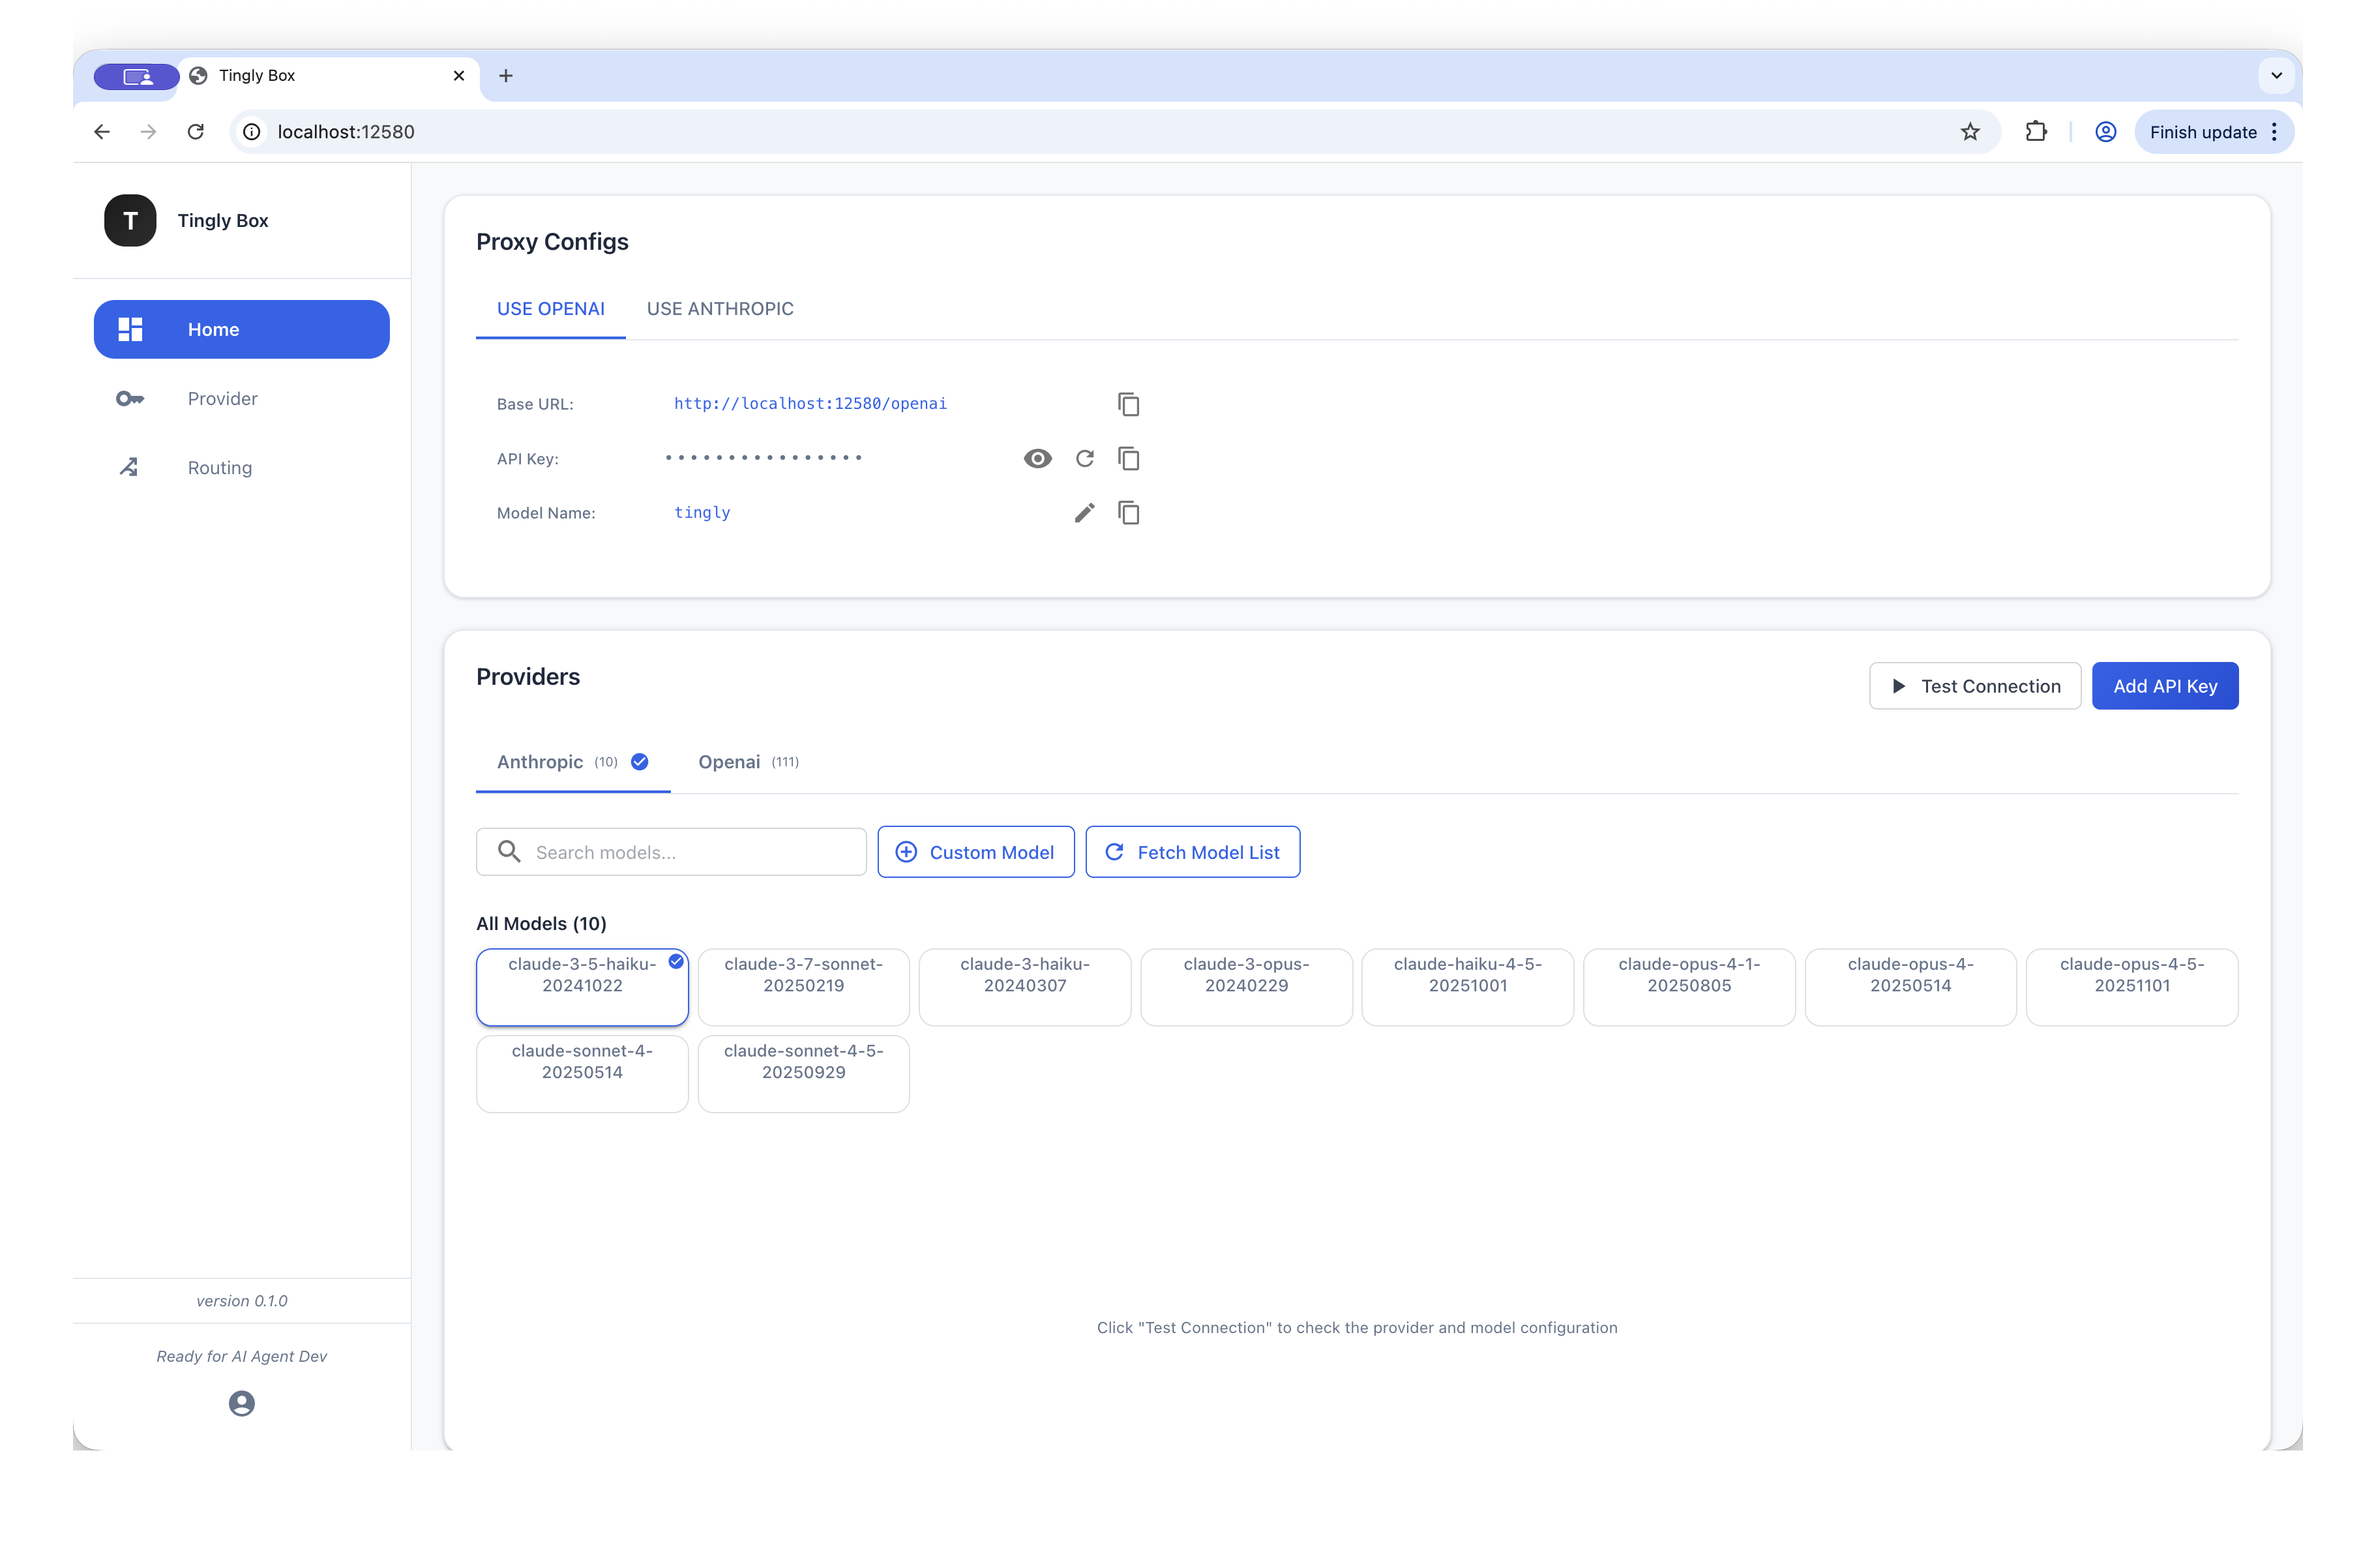
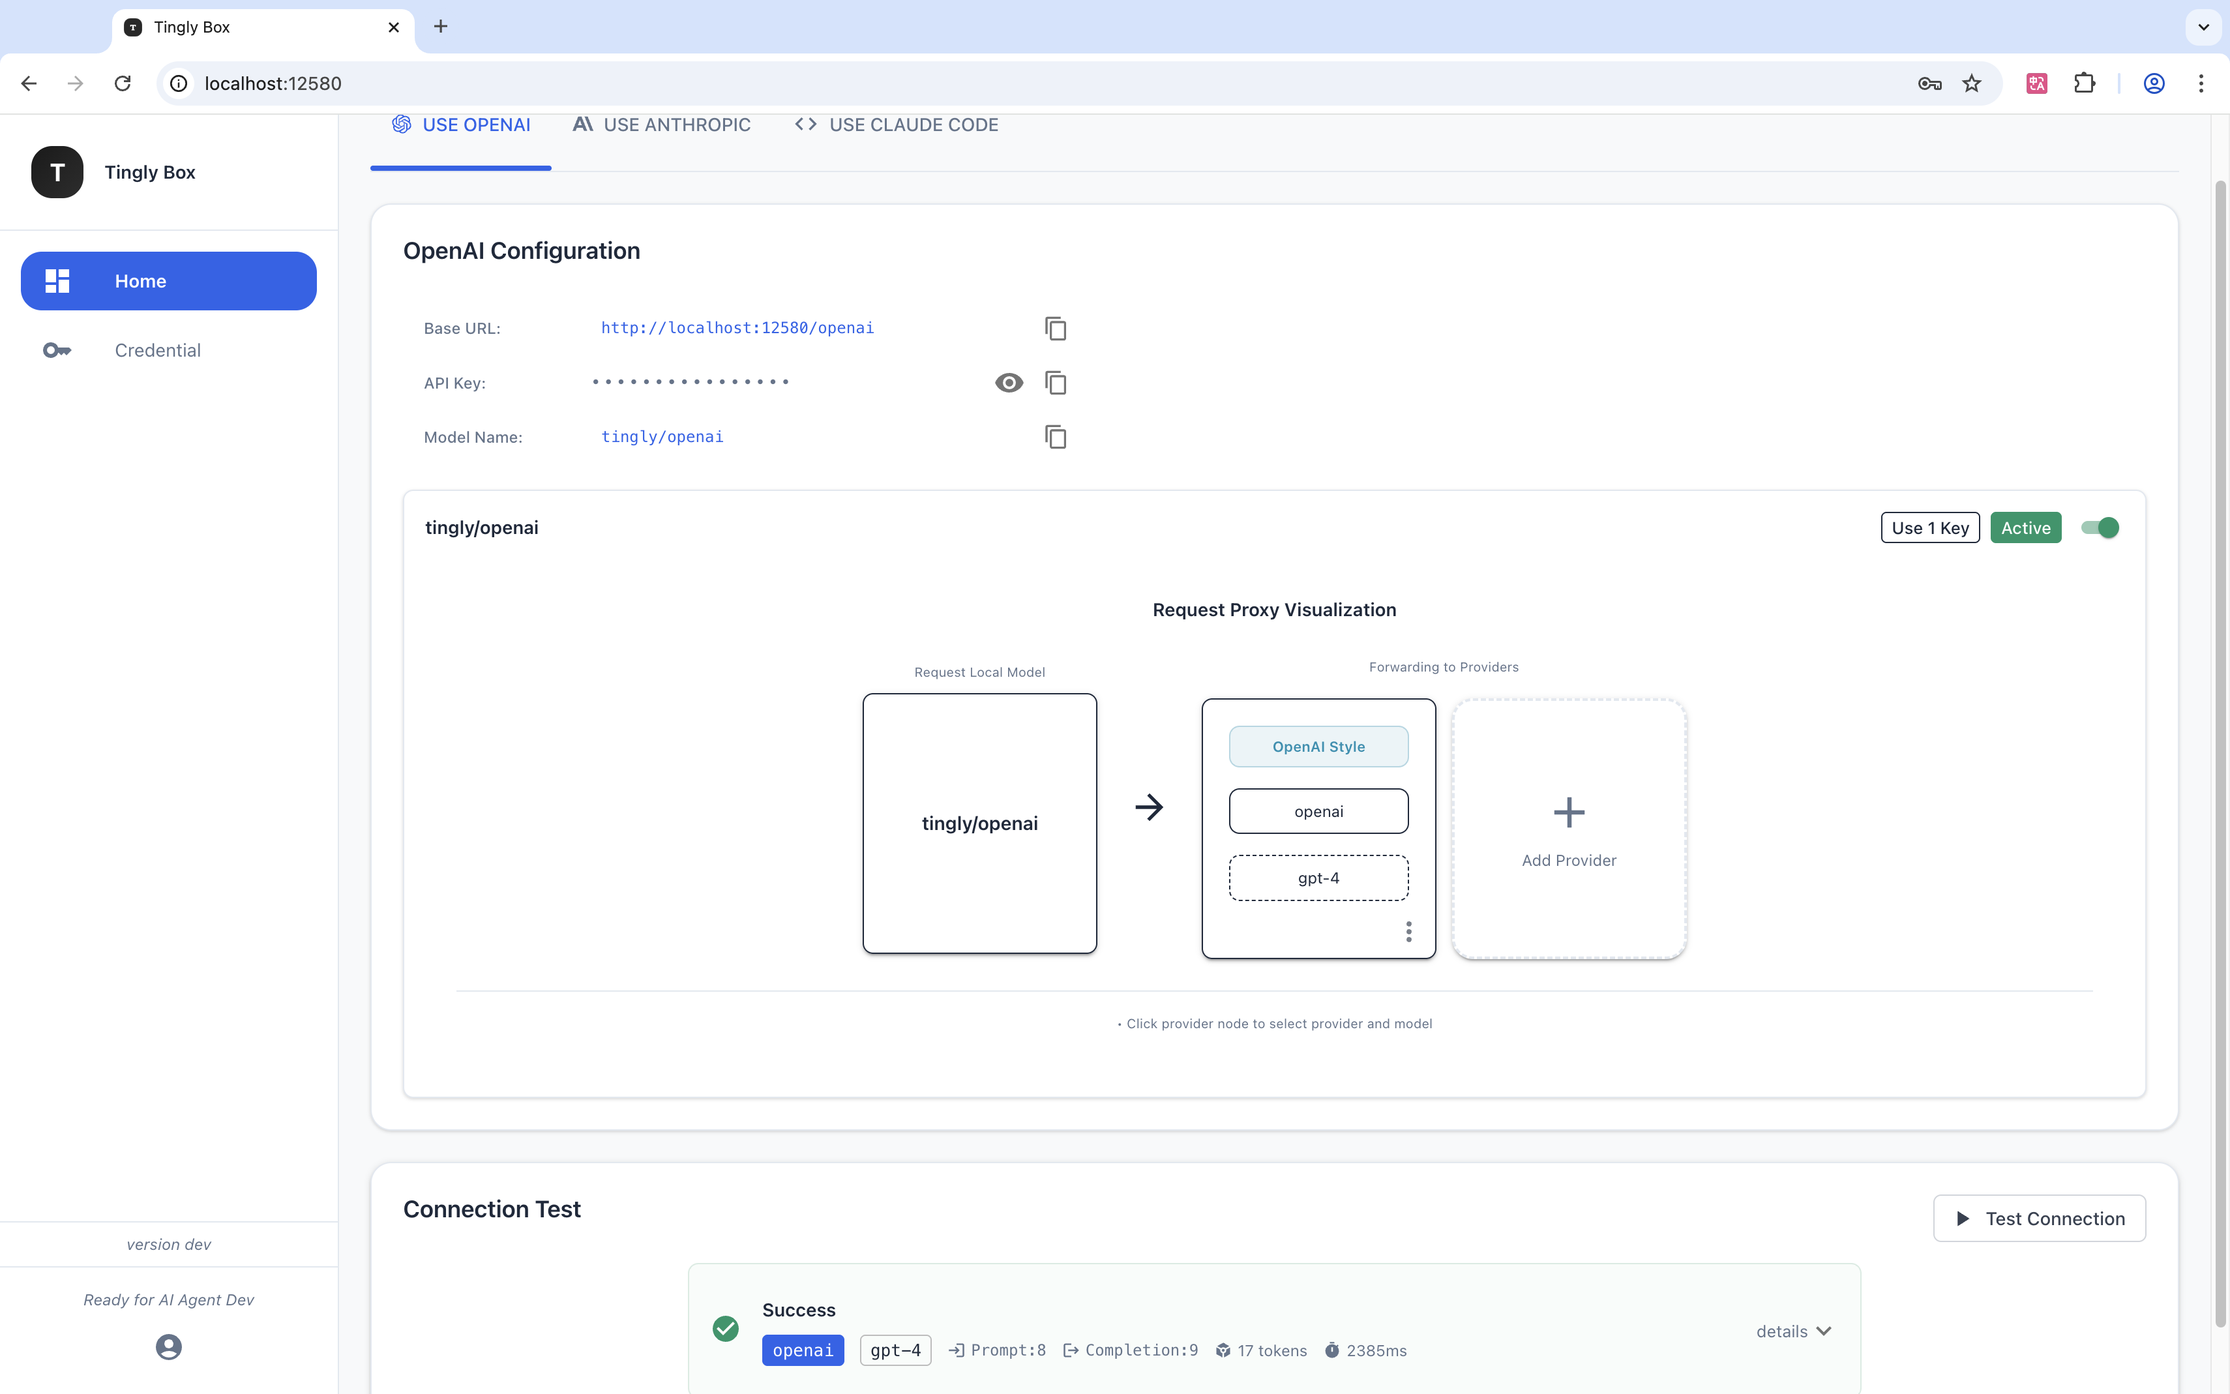
minor: remove docker startup and update snapshots

diff --git a/src/data/code.tsx b/src/data/code.tsx
@@ -84,25 +84,25 @@ const CodeBlock = ({code, language}: { code: string; language: string }) => {
 export const STEPS = [
     {
         title: "Start the Service",
-        desc: "Choose between a quick local start or a persistent Docker deployment.",
+        desc: "Start the service by a quick npx start.",
         content: (
             <div className="space-y-4">
                 <div className="space-y-2">
                     <p className="text-[10px] uppercase tracking-widest text-cyan-400 font-bold">
-                        Option 1: Node.js (Recommended)
+                        Start by Node.js
                     </p>
                     <CodeBlock language="bash" code="npx tingly-box@latest start"/>
                 </div>
 
-                <div className="space-y-2">
-                    <p className="text-[10px] uppercase tracking-widest text-blue-400 font-bold">
-                        Option 2: Docker (Persistent)
-                    </p>
-                    <CodeBlock
-                        language="bash"
-                        code={`mkdir -p data/.tingly-box data/logs\ndocker run -d --name tingly-box \\\n  -p 12580:12580 \\\n  -v $(pwd)/data/.tingly-box:/app/.tingly-box \\\n  -v $(pwd)/data/logs:/app/logs \\\n  tingly-box:latest`}
-                    />
-                </div>
+                {/*<div className="space-y-2">*/}
+                {/*    <p className="text-[10px] uppercase tracking-widest text-blue-400 font-bold">*/}
+                {/*        Option 2: Docker (Persistent)*/}
+                {/*    </p>*/}
+                {/*    <CodeBlock*/}
+                {/*        language="bash"*/}
+                {/*        code={`mkdir -p data/.tingly-box data/logs\ndocker run -d --name tingly-box \\\n  -p 12580:12580 \\\n  -v $(pwd)/data/.tingly-box:/app/.tingly-box \\\n  -v $(pwd)/data/logs:/app/logs \\\n  tingly-box:latest`}*/}
+                {/*    />*/}
+                {/*</div>*/}
             </div>
         ),
     },

diff --git a/src/data/text.ts b/src/data/text.ts
@@ -1,7 +1,7 @@
 
 
 import screenshotHome from "@/assets/Home.png";
-import screenshotCredentials from "@/assets/Provider.png";
+import screenshotCredentials from "@/assets/Credential.png";
 import screenshotRules from "@/assets/Routing.png";
 import { ArrowLeftRight, Gauge, Globe, Layers } from "lucide-react";
 
